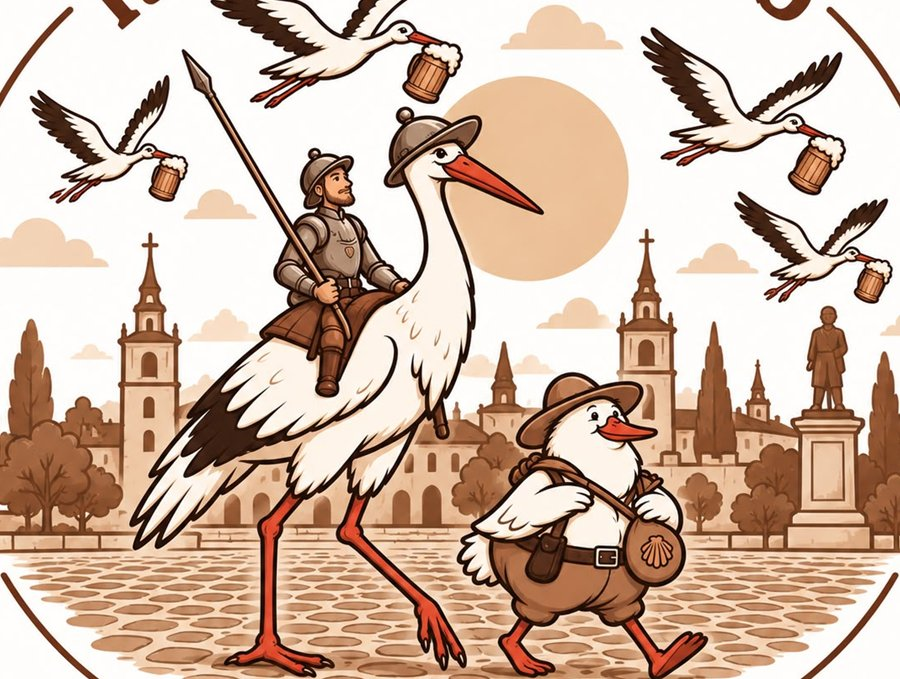
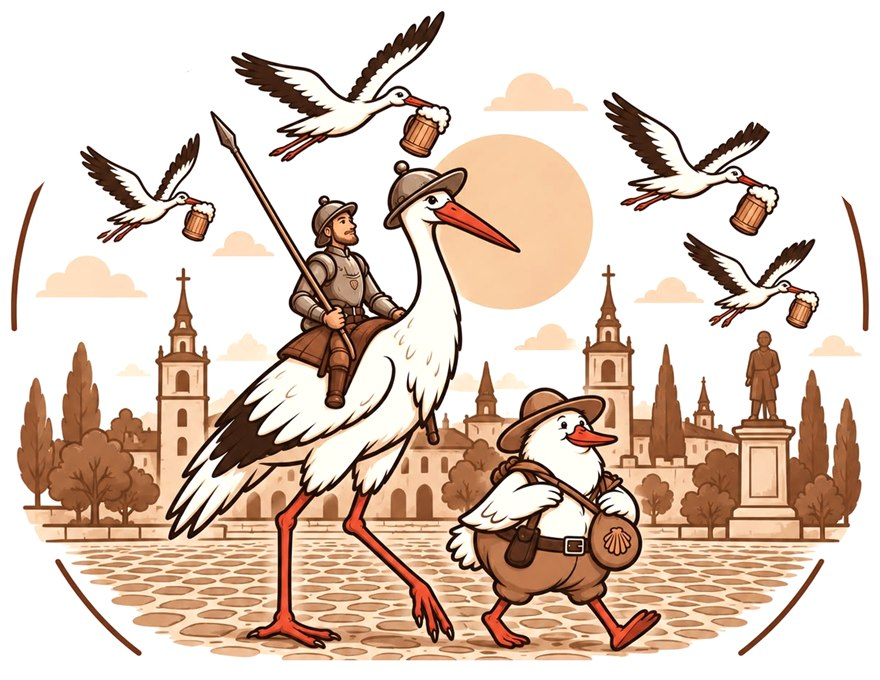
Diploma: fondo con la ilustracion entera (zoom out) y sin los rotulos
Vuelve al 'contain' de antes, con la ilustracion completa dentro del marco, pero
con "Ruta de Bares" y "Alcala de Henares" borrados de la imagen (curva blanca
siguiendo el texto para no comerse las alas de las cigüeñas), el papel del JPG
pasado a blanco puro y los margenes blancos recortados. Opacidad al 15 %.

diff --git a/src/features/diploma/Diploma.tsx b/src/features/diploma/Diploma.tsx
@@ -40,7 +40,7 @@ const TINTA_SUAVE = '#6B4E22';
  * 'multiply', asi que el blanco del dibujo desaparece contra el papel y solo
  * quedan las lineas y los tonos. Mas alto compite con el texto; mas bajo se pierde.
  */
-export const OPACIDAD_FONDO_DIPLOMA = 0.12;
+export const OPACIDAD_FONDO_DIPLOMA = 0.15;
 /** El marco del diploma: el friso de tercios. Los demas siguen en marcos.tsx por si se quieren recuperar. */
 export const MARCO_POR_DEFECTO: VarianteMarco = 'tercios';
 
@@ -59,14 +59,14 @@ export const Diploma = forwardRef<View, {
   return (
     <View ref={ref} collapsable={false} style={styles.diploma}>
       <View style={styles.mitad}>
-        {/* Recortada SIN su rotulo ("Ruta de Bares / Alcala de Henares"), que
-            chocaba con el titulo, y ajustada al marco ('cover'). Se probo
-            entera con los rotulos y hacia demasiado ruido. */}
+        {/* La ilustracion ENTERA ('contain', "zoom out"), con los rotulos de
+            arriba y abajo ("Ruta de Bares / Alcala de Henares") borrados: ruidaban
+            detras del titulo. Cubriendo el marco ('cover') se recortaba el dibujo. */}
         <View style={[styles.cajaFondo, { top: fondo, left: fondo, right: fondo, bottom: fondo }]} pointerEvents="none">
           <Image
             source={require('../../../assets/marca/fondo-diploma.jpg')}
             style={[styles.fondo, { opacity: opacidadFondo }]}
-            resizeMode="cover"
+            resizeMode="contain"
             accessibilityIgnoresInvertColors
           />
         </View>

diff --git a/tests/diploma.test.ts b/tests/diploma.test.ts
@@ -81,7 +81,7 @@ describe('Diploma', () => {
   it('el fondo es la ilustracion de Ruta de Bares recortada, mezclada en multiply y dentro del marco', () => {
     assert.match(codigo, /require\('\.\.\/\.\.\/\.\.\/assets\/marca\/fondo-diploma\.jpg'\)/);
     assert.match(codigo, /mixBlendMode: 'multiply'/);
-    assert.match(codigo, /resizeMode="cover"/);
+    assert.match(codigo, /resizeMode="contain"/, 'zoom out: la ilustracion entera, sin recortar');
     assert.match(codigo, /cajaFondo: \{ position: 'absolute', overflow: 'hidden' \}/);
     assert.match(codigo, /\{ top: fondo, left: fondo, right: fondo, bottom: fondo \}/);
   });
